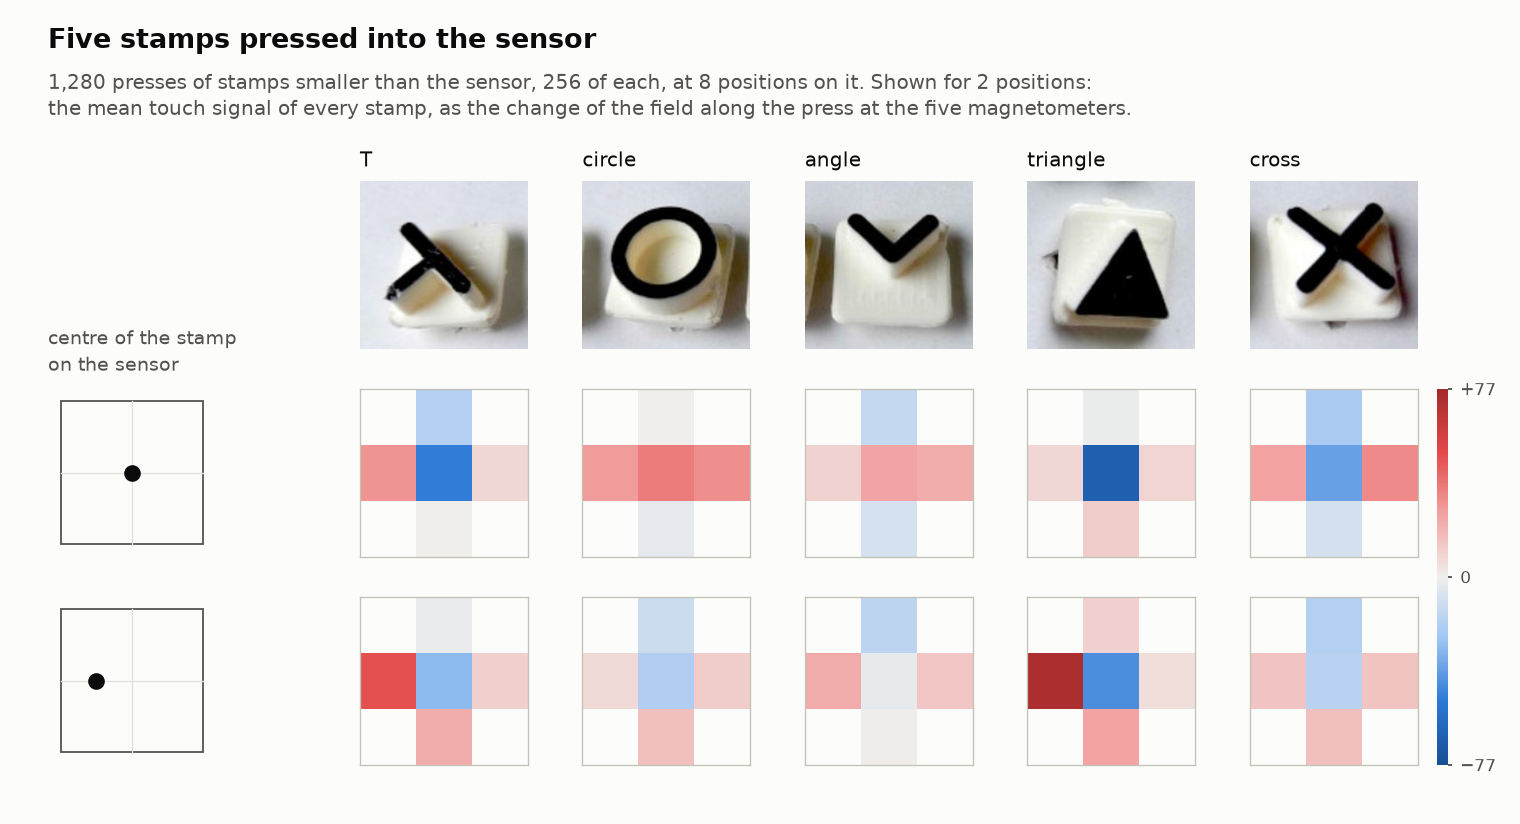
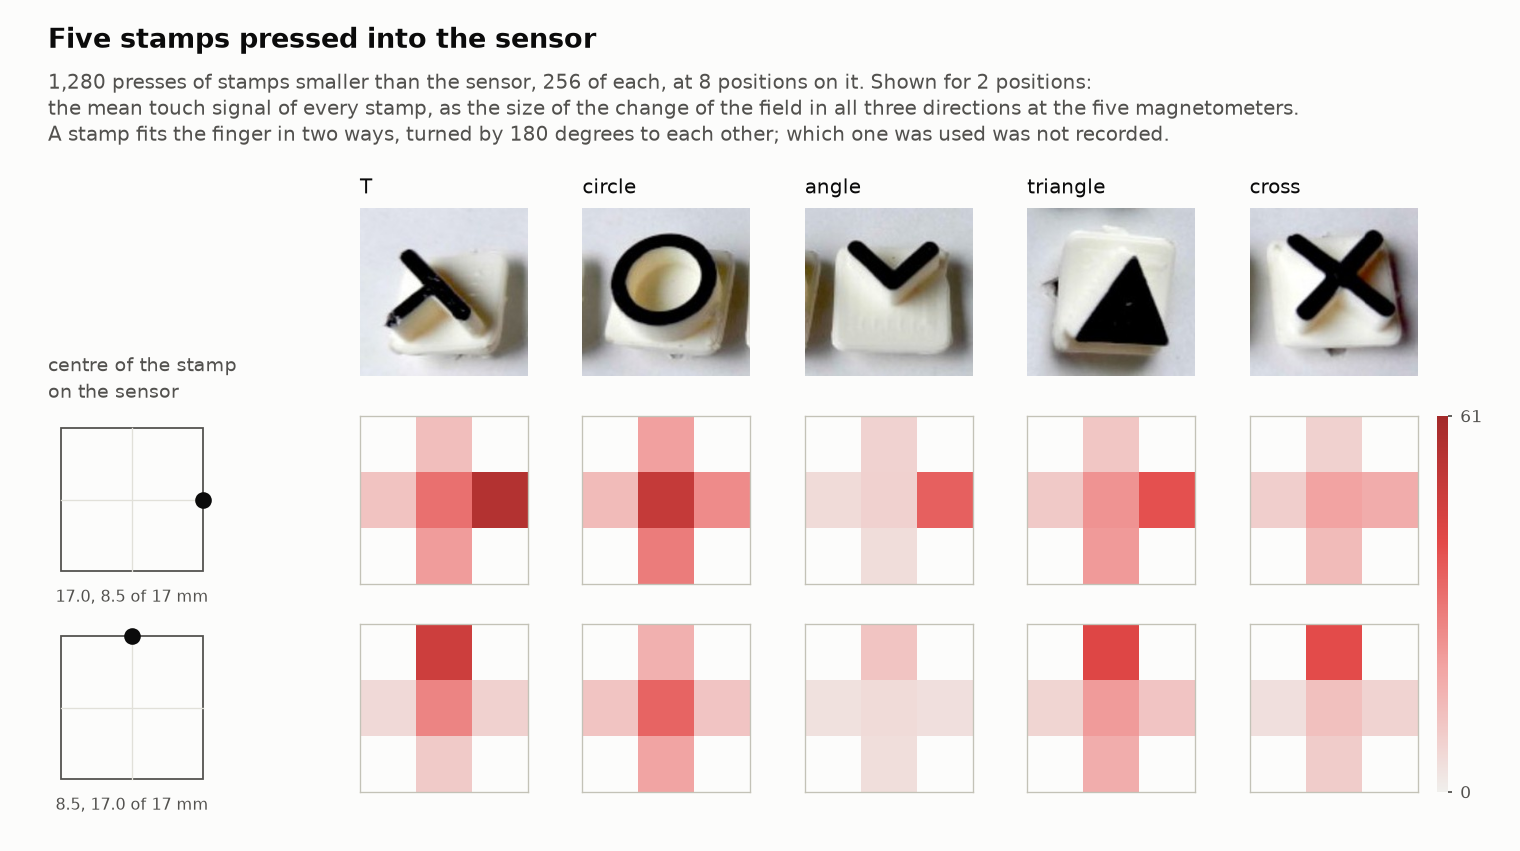
use absolute data, bx by bz channels visualization weighting and alignment;

diff --git a/src/imagine2touch/visualization/stamp_visualizer.py b/src/imagine2touch/visualization/stamp_visualizer.py
@@ -14,8 +14,9 @@ class StampVisualizer:
         StampVisualizer(dataset, photos="assets/stamps").overview("assets/stamps_overview.png")
 
     One column per stamp: its photograph (`photos` holds <stamp>.jpg) and, for a few of the positions
-    it was pressed at, the mean touch signal there, as the cross of the five magnetometers (the field
-    along the direction of the press).  A small drawing of the sensing surface shows each position.
+    it was pressed at, the mean touch signal there, as the cross of the five magnetometers
+    (TactileImage.grey: the change of the field in all three directions, as the paper draws a signal).
+    A small drawing of the sensing surface shows each position.
     """
 
     PAD = 17.0      # side of the sensing surface [mm]
@@ -23,37 +24,37 @@ class StampVisualizer:
     def __init__(self, dataset, photos=None):
         Style.apply()
         self.dataset, self.photos = dataset, Path(photos) if photos else None
-        self.along = TactileImage.along_touch(dataset.signal)
-        for corner in TactileImage.CORNERS:
-            self.along[(slice(None), *corner)] = np.nan
-        self.limit = float(np.percentile(np.abs(dataset.signal[:, 2::3]), 98))
+        self.images = TactileImage.grey(dataset.signal)
+        self.limit = float(np.nanpercentile(self.images, 98))
 
     def location(self, ax, position):
         """
         The sensing surface as a square, with the place of a press [mm] marked on it: the press grid's
         first axis to the right and its second upwards, which is the layout of TactileImage: the
-        magnetometer nearest the stamp is the one that responds.
+        signal leans to the side the stamp is moved to, in each of the field's three directions.
         """
         ax.add_patch(plt.Rectangle((0, 0), self.PAD, self.PAD, fill=False, ec=Style.INK_2, lw=0.8))
         ax.plot([self.PAD / 2] * 2, [0, self.PAD], color=Style.HAIRLINE, lw=0.6)
         ax.plot([0, self.PAD], [self.PAD / 2] * 2, color=Style.HAIRLINE, lw=0.6)
-        ax.scatter(position[0], position[1], s=42, color=Style.INK, zorder=3)
+        ax.scatter(position[0], position[1], s=42, color=Style.INK, zorder=3, clip_on=False)
+        ax.text(self.PAD / 2, -2.2, f"{position[0]:.1f}, {position[1]:.1f} of {self.PAD:.0f} mm", fontsize=7, color=Style.INK_2, ha="center", va="top")
         ax.set(xlim=(-1.5, self.PAD + 1.5), ylim=(-1.5, self.PAD + 1.5), aspect="equal")
         ax.axis("off")
 
-    def overview(self, path=None, shown=((8.5, 8.5), (4.2, 8.5))):
+    def overview(self, path=None, shown=((17.0, 8.5), (8.5, 17.0))):
         """`shown`: the press positions to draw [mm], of the eight in the dataset."""
         d = self.dataset
         position, positions = d.position_index, 1000 * np.unique(d.position.round(5), axis=0)
         chosen = [int(np.abs(positions - p).sum(1).argmin()) for p in shown]
         W, side, gap, left = 9.5, 1.05, 0.34, 2.25
-        fig = plt.figure(figsize=(W, 1.25 + (side + 0.25) * (1 + len(chosen))))
+        fig = plt.figure(figsize=(W, 1.42 + (side + 0.25) * (1 + len(chosen))))
         H = fig.get_figheight()
         fig.text(0.3 / W, 1 - 0.3 / H, "Five stamps pressed into the sensor", fontsize=12, weight="bold")
         fig.text(0.3 / W, 1 - 0.44 / H, f"{len(d):,} presses of stamps smaller than the sensor, {int((d.stamp == 0).sum())} of each, at {len(positions)} "
-                 f"positions on it. Shown for {len(chosen)} positions:\nthe mean touch signal of every stamp, as the change of the "
-                 "field along the press at the five magnetometers.", color=Style.INK_2, va="top", linespacing=1.3)
-        top = 1.05
+                 f"positions on it. Shown for {len(chosen)} positions:\nthe mean touch signal of every stamp, as the size of the change of the "
+                 "field in all three directions at the five magnetometers.\n"
+                 "A stamp fits the finger in two ways, turned by 180 degrees to each other; which one was used was not recorded.", color=Style.INK_2, va="top", linespacing=1.3)
+        top = 1.22
         for c, stamp in enumerate(d.STAMPS):
             x = (left + c * (side + gap)) / W
             fig.text(x, 1 - (top + 0.02) / H, stamp, fontsize=9, va="bottom")
@@ -70,13 +71,13 @@ class StampVisualizer:
                          color=Style.INK_2, va="bottom", linespacing=1.3)
             for c in range(len(d.STAMPS)):
                 ax = fig.add_axes([(left + c * (side + gap)) / W, bottom, side / W, side / H])
-                image = ax.imshow(self.along[(d.stamp == c) & (position == k)].mean(0), cmap=Style.SIGNAL,
-                                  vmin=-self.limit, vmax=self.limit)
+                image = ax.imshow(self.images[(d.stamp == c) & (position == k)].mean(0), cmap=Style.SIGNAL,
+                                  vmin=0, vmax=self.limit)
                 Style.frame(ax)
         low = 1 - (top + 0.08 + (side + 0.25) * len(chosen) + side) / H
         bar = fig.colorbar(image, cax=fig.add_axes([(left + 5 * (side + gap) - gap + 0.12) / W, low, 0.07 / W,
                                                     ((side + 0.25) * (len(chosen) - 1) + side) / H]))
-        bar.set_ticks([-self.limit, 0, self.limit], labels=[f"−{self.limit:.0f}", "0", f"+{self.limit:.0f}"])
+        bar.set_ticks([0, self.limit], labels=["0", f"{self.limit:.0f}"])
         bar.outline.set_visible(False)
         bar.ax.tick_params(length=2, labelsize=7.5)
         if path is None:

diff --git a/src/imagine2touch/visualization/correspondence_figure.py b/src/imagine2touch/visualization/correspondence_figure.py
@@ -37,27 +37,24 @@ class CorrespondenceFigure:
     def __init__(self, selection, settings, clusters):
         self.settings, self.clusters = settings, clusters
         dataset, rows = selection.dataset, selection.rows
-        # the script turns every camera image a quarter turn and draws the cross as it is (centre, top, right, bottom, left)
-        self.masks = np.rot90(dataset.mask[rows].astype(float), k=1, axes=(1, 2))
-        self.rgb = np.rot90(dataset.rgb[rows], k=1, axes=(1, 2))
+        # the script laid out the masks after a turn by 90 degrees; they are drawn as the tactile image is laid out
+        self.turned = np.rot90(dataset.mask[rows].astype(float), k=1, axes=(1, 2))
+        self.masks = TactileImage.aligned(dataset.mask[rows].astype(float))
+        self.rgb = TactileImage.aligned(dataset.rgb[rows], colour=True)
         self.tactile = self.visualisation(dataset.signal[rows])
         self.shape = np.asarray(selection.shape)
         # the order in which the script went through the touches: object by object, as its configuration listed them
         rank = [self.OBJECTS.index(name) if name in self.OBJECTS else len(self.OBJECTS) for name in self.shape]
         self.order = np.argsort(rank, kind="stable")
 
-    GREY = (0.2989, 0.5870, 0.1140)         # the weights of red, green and blue in a grey picture
-
-    @classmethod
-    def visualisation(cls, signal):
+    @staticmethod
+    def visualisation(signal):
         """
-        (n, 3, 3) tactile images as the paper draws them: at each magnetometer the sizes of the three
-        components of the change of the field, weighted by GREY and summed.  The paper's code took the
+        (n, 3, 3) tactile images as the paper draws them (TactileImage.grey).  The paper's code took the
         size of every component when it subtracted the reading out of contact (`subtract_ambient` in
-        its reskin_calibration/dataset.py).  A value of exactly zero is left empty, as are the corners,
-        where no magnetometer sits.
+        its reskin_calibration/dataset.py).  A value of exactly zero is left empty.
         """
-        image = np.abs(TactileImage.of(signal)) @ np.array(cls.GREY)
+        image = TactileImage.grey(signal)
         return np.where(image == 0, np.nan, image)
 
     @staticmethod
@@ -69,7 +66,7 @@ class CorrespondenceFigure:
         return mean
 
     def embed(self):
-        flat = self.masks.reshape(len(self.masks), -1)
+        flat = self.turned.reshape(len(self.turned), -1)
         seed = self.settings.seed
         embedding = TSNE(n_components=2, random_state=seed).fit(flat)
         self.points = np.asarray(embedding.transform(flat))         # the script lays the masks out a second time

diff --git a/src/imagine2touch/visualization/dataset_visualizer.py b/src/imagine2touch/visualization/dataset_visualizer.py
@@ -9,6 +9,7 @@ from pathlib import Path
 
 from .style import Style
 from .touch_view import TouchView
+from imagine2touch.datasets import TactileImage
 
 PANELS = ("where", "rgb", "camera", "scan", "mask", "field")
 TITLES = {"where": "Where", "rgb": "Colour image", "camera": "Depth, wrist camera", "mask": "Contact mask, camera",
@@ -38,6 +39,7 @@ class DatasetVisualizer:
         self.placed = [k for k in self.sessions if dataset.has_scan(k)]
         self.rng = np.random.default_rng(seed)
         self.signal_limit = float(np.percentile(np.abs(dataset.signal[self.rows[self.calm]]), 98))
+        self.grey_limit = float(np.nanpercentile(TactileImage.grey(dataset.signal[self.rows[self.calm]]), 98))
 
     # ------------------------------------------------------------------ choosing touches worth looking at
     def clear_touches(self, per_shape=1, sessions=None):
@@ -140,7 +142,7 @@ class DatasetVisualizer:
             scan = np.where(view.scan_gap >= view.reach, 2 * view.reach, np.clip(view.scan_gap, 0, None))    # nothing in reach: drawn as far
             axes["scan"].imshow(scan, **depth)
         axes["mask"].imshow(view.mask, cmap=Style.MASKS, vmin=0, vmax=1, interpolation="nearest")
-        axes["field"].imshow(view.field[2], cmap=Style.SIGNAL, vmin=-self.signal_limit, vmax=self.signal_limit)
+        axes["field"].imshow(view.grey, cmap=Style.SIGNAL, vmin=0, vmax=self.grey_limit)
         for name, ax in axes.items():
             if name != "where":
                 Style.frame(ax)
@@ -168,10 +170,9 @@ class DatasetVisualizer:
                            cax=fig.add_axes([first.x0, low, last.x1 - first.x0, 0.07 / H]), orientation="horizontal")
         bar.set_ticks([0, 3.5, 7], labels=["nearest", "3.5 mm", "7 mm"] if "scan" not in axes else ["touching", "3.5 mm in front", "7 mm"])
         first = last = axes["field"].get_position()
-        bar_2 = fig.colorbar(plt.cm.ScalarMappable(plt.Normalize(-self.signal_limit, self.signal_limit), Style.SIGNAL),
+        bar_2 = fig.colorbar(plt.cm.ScalarMappable(plt.Normalize(0, self.grey_limit), Style.SIGNAL),
                              cax=fig.add_axes([first.x0, low, last.x1 - first.x0, 0.07 / H]), orientation="horizontal")
-        bar_2.set_ticks([-self.signal_limit, 0, self.signal_limit],
-                        labels=[f"−{self.signal_limit:.0f}", "no change", f"+{self.signal_limit:.0f}"])
+        bar_2.set_ticks([0, self.grey_limit], labels=["no change", f"{self.grey_limit:.0f}"])
         for b in (bar, bar_2):
             b.outline.set_visible(False)
             b.ax.tick_params(length=2, labelsize=7.5)

diff --git a/src/imagine2touch/method/models/imagine2touch_model.py b/src/imagine2touch/method/models/imagine2touch_model.py
@@ -21,12 +21,11 @@ class TouchModel:
     """
 
     def __init__(self, architecture="mlp", scaling="standard", epochs=300, lr=5e-4, batch_size=128,
-                 image_weight=1.0, patience=30, seed=0, device="cpu", binary_images=False, absolute=False):
+                 image_weight=1.0, patience=30, seed=0, device="cpu", binary_images=False):
         from imagine2touch.method.models import ARCHITECTURES
         self.architecture, self.scaling, self.binary_images = architecture, scaling, binary_images
         self.epochs, self.lr, self.batch_size = epochs, lr, batch_size
         self.image_weight, self.patience, self.seed, self.device = image_weight, patience, seed, device
-        self.absolute = absolute            # train on the size of every value, as the thesis's code did
         self.scaler = SIGNAL_SCALERS[scaling]()
         torch.manual_seed(seed)
         self.network = ARCHITECTURES[architecture]().to(device)
@@ -45,8 +44,8 @@ class TouchModel:
         return loss
 
     def target(self, signals):
-        """The signals as the network is trained on them: their sizes if `absolute`."""
-        return np.abs(signals) if self.absolute else np.asarray(signals, float)
+        """The signals as the network is trained on them: the size of every value, as in the thesis's code."""
+        return np.abs(np.asarray(signals, float))
 
     def fit(self, images, signals, validation=None):
         signals = self.target(signals)
@@ -90,14 +89,13 @@ class TouchModel:
 
     # ------------------------------------------------------------------ saving
     def save(self, path):
-        torch.save(dict(network=self.network.state_dict(), scaler=vars(self.scaler), absolute=self.absolute,
+        torch.save(dict(network=self.network.state_dict(), scaler=vars(self.scaler),
                         architecture=self.architecture, scaling=self.scaling, binary_images=self.binary_images), path)
 
     @classmethod
     def load(cls, path, device="cpu"):
         state = torch.load(path, map_location=device, weights_only=False)
-        model = cls(state["architecture"], state["scaling"], device=device, binary_images=state["binary_images"],
-                    absolute=state.get("absolute", False))
+        model = cls(state["architecture"], state["scaling"], device=device, binary_images=state["binary_images"])
         model.network.load_state_dict(state["network"])
         vars(model.scaler).update(state["scaler"])
         return model

diff --git a/src/imagine2touch/datasets/shape_classification_dataset.py b/src/imagine2touch/datasets/shape_classification_dataset.py
@@ -4,7 +4,8 @@ The shape classification dataset (paper: Table I and Fig. 3; thesis: Sec. 5.1).
 The sensor is mounted on a fixture.  The robot holds one of five 3D-printed stamps, each smaller
 than the sensing surface (a letter T, a circle, an angle, a triangle and a cross), and presses it into
 the skin at eight positions of a grid, to four depths each, again and again.  Every press is one
-touch signal; the question is whether the signal tells which stamp it was.
+touch signal; the question is whether the signal tells which stamp it was.  A stamp fits the finger
+in two ways, turned by 180 degrees to each other; which one was used was not recorded.
 
 The 1,280 presses of the paper, 256 of every stamp, are in `data/shape_classification.npz` with the
 paper's split into training, validation and test presses, made from the recordings by
@@ -20,7 +21,7 @@ from imagine2touch.paths import DATA_DIR
 
 class ShapeClassificationDataset:
     """
-      signal     (N, 15) reading of the press minus the reading out of contact before it
+      signal     (N, 15) how much each value changed: |reading of the press - reading out of contact before it|
       role       (N,) the paper's split: "train", "validation" or "test"
       stamp      (N,) index into STAMPS
       session    (N,) index into `sessions`, the recorded folders
@@ -35,7 +36,7 @@ class ShapeClassificationDataset:
         self.path = Path(path or DATA_DIR / self.FILE)
         if self.available:
             z = np.load(self.path)
-            self.signal, self.stamp, self.session = z["signal"].astype(float), z["stamp"], z["session"]
+            self.signal, self.stamp, self.session = np.abs(z["signal"].astype(float)), z["stamp"], z["session"]
             self.position, self.force, self.sessions = z["position"], z["force"], [str(s) for s in z["sessions"]]
             roles = [str(r) for r in z["roles"]] if "roles" in z else ["train"]
             index = z["role"] if "role" in z else np.zeros(len(self.stamp), int)

diff --git a/src/imagine2touch/visualization/touch_view.py b/src/imagine2touch/visualization/touch_view.py
@@ -20,6 +20,7 @@ class TouchView:
       mask          (48, 48) the contact mask of the camera's image
       field         (3, 3, 3) the touch signal as three crosses: the field's two components across
                     the direction of touch and the one along it; NaN in the corners
+      grey          (3, 3) the touch signal as the paper draws it (TactileImage.grey)
     """
 
     COMPONENTS = ("across", "across", "along the touch")
@@ -28,20 +29,21 @@ class TouchView:
         self.dataset, self.index = dataset, int(i)
         grid = dataset.grid
         self.reach = grid.reach
-        self.rgb, self.mask = dataset.rgb[i], dataset.mask[i]
+        self.rgb, self.mask = TactileImage.aligned(dataset.rgb[i], colour=True), TactileImage.aligned(dataset.mask[i])
         depth = dataset.depth[i].astype(float)
         zero = dataset.camera_to_sensor[i]
         if not np.isfinite(zero):
             zero = depth[depth > 0].min() if (depth > 0).any() else 0.0
-        self.camera_gap = np.where(depth > 0, depth - zero, np.nan)
+        self.camera_gap = TactileImage.aligned(np.where(depth > 0, depth - zero, np.nan))
         self.has_scan = dataset.has_scan(int(dataset.object[i]))
         self.scan_gap = None
         if self.has_scan:
-            self.scan_gap = (dataset.scan_depth(i) - grid.behind)[:, ::-1]    # the camera's columns run the other way
+            self.scan_gap = TactileImage.aligned((dataset.scan_depth(i) - grid.behind)[:, ::-1])    # the camera's columns run the other way
         image = TactileImage.of(dataset.signal[i])[0]
         for corner in TactileImage.CORNERS:
             image[corner] = np.nan
         self.field = np.moveaxis(image, -1, 0)
+        self.grey = TactileImage.grey(dataset.signal[i])[0]
         self.signal = dataset.signal[i].astype(float)
         self.pose, self.outcome = dataset.pose[i], str(dataset.outcome[i])
         self.session = int(dataset.object[i])

diff --git a/src/imagine2touch/datasets/tactile_image.py b/src/imagine2touch/datasets/tactile_image.py
@@ -16,6 +16,7 @@ class TactileImage:
 
     PIXELS = ((1, 1), (0, 1), (1, 2), (2, 1), (1, 0))      # centre, top, right, bottom, left
     CORNERS = ((0, 0), (0, 2), (2, 0), (2, 2))
+    GREY = (0.2989, 0.5870, 0.1140)         # the weights of red, green and blue in a grey picture
 
     @classmethod
     def of(cls, signal):
@@ -26,7 +27,26 @@ class TactileImage:
             image[:, row, col] = signal[:, magnetometer]
         return image
 
+    @staticmethod
+    def aligned(images, colour=False):
+        """
+        Takes camera images (..., rows, columns), or with `colour` (..., rows, columns, 3).  Returns
+        them turned as the tactile image is laid out, so that the part of the surface over a
+        magnetometer is drawn where its pixel is.  The turn is the one the data supports: the right of
+        the camera image is the top of the sensor, and its bottom the sensor's left.
+        """
+        images = np.asarray(images)
+        rows, columns = (-3, -2) if colour else (-2, -1)
+        return np.swapaxes(np.flip(images, (rows, columns)), rows, columns)
+
     @classmethod
-    def along_touch(cls, signal):
-        """Images (n, 3, 3) of the field along the direction of touch, the component the paper's Fig. 2 shows."""
-        return cls.of(signal)[..., 2]
+    def grey(cls, signal):
+        """
+        Images (n, 3, 3) as the paper draws a touch signal (its Fig. 2): at each magnetometer the
+        sizes of the three components of the change of the field, weighted by GREY and summed.  The
+        corners, where no magnetometer sits, are NaN.
+        """
+        image = np.abs(cls.of(signal)) @ np.array(cls.GREY)
+        for corner in cls.CORNERS:
+            image[(slice(None), *corner)] = np.nan
+        return image

diff --git a/src/imagine2touch/datasets/visuo_tactile_dataset.py b/src/imagine2touch/datasets/visuo_tactile_dataset.py
@@ -25,7 +25,7 @@ class VisuoTactileDataset:
     One row per approach of the robot.
 
     Touch
-      signal            (N, 15) the reading at contact minus the reading just before it: three field
+      signal            (N, 15) how much the reading changed at contact, |reading - ambient|: three field
                         components for each magnetometer, in the order centre, top, right, bottom, left
       reading, ambient  (N, 15) the two readings themselves
       outcome           (N,) what ended the approach: "sensor" the reading jumped, "wrench" the robot
@@ -63,7 +63,7 @@ class VisuoTactileDataset:
         self.objects, self.shapes = [str(o) for o in z["objects"]], [str(s) for s in z["shapes"]]
         self.object, self.shape, self.experiment = z["object"], z["shape"], z["experiment"]
         self.outcome = np.array([ApproachOutcome.label_of(int(code)) for code in z["outcome"]])
-        self.signal, self.reading, self.ambient = z["signal"], z["reading"], z["ambient"]
+        self.signal, self.reading, self.ambient = np.abs(z["signal"]), z["reading"], z["ambient"]
         self.wrench, self.joints, self.camera_to_sensor = z["wrench"], z["joints"], z["camera_to_sensor"]
         self.depth, self.depth_processed, self.mask, self.rgb = z["depth"], z["depth_processed"], z["mask"], z["rgb"]
         self.pose = [Pose(R, t) for R, t in zip(z["pose_R"], z["pose_t"])]

diff --git a/scripts/report_benchmark.py b/scripts/report_benchmark.py
@@ -17,7 +17,7 @@ TABLES = [   # title, table of ResultsAnalyzer, what it shows
      "Paper: T 0.91, circle 0.90, angle 0.90, triangle 0.95, cross 0.94, all 0.92."),
     ("The clusters of the t-SNE figure (paper: Fig. 2)", "clusters",
      "Per cluster of masks: touches, share of the mask that is filled, where the mask lies (0 to 1 along rows and "
-     "columns), and the mean field along the direction of touch at each magnetometer."),
+     "columns), and the mean size of the change of the field along the direction of touch at each magnetometer."),
     ("How much of the touch signal the mask explains", "correspondence",
      "Share of the differences between touch signals that the cluster of the mask explains, and the same when "
      "masks and signals are paired at random."),

diff --git a/tests/datasets/test_datasets.py b/tests/datasets/test_datasets.py
@@ -30,7 +30,7 @@ def test_the_visuo_tactile_dataset():
     assert np.median([t.scan(int(t.object[i])).distance_to(t.commanded[i].t) for i in flower]) < 0.05
     assert np.median([t.distance_to_scan(i, int(t.object[i])) for i in flower]) < 1.5         # and the sensor stops on it
     assert t.signal.shape[1] == 15 and t.mask.shape[1:] == (48, 48)
-    assert t.signal == pytest.approx(t.reading - t.ambient, abs=1e-3)
+    assert t.signal == pytest.approx(np.abs(t.reading - t.ambient), abs=1e-3)
     # the stored masks follow the rule of preprocessing.contact_mask
     assert (ContactMask()(t.depth_processed[paper]) == t.mask[paper]).mean() > 0.97
     # the fitted sensor sits 125 mm in front of the flange, and the robot stops within millimetres of its target

diff --git a/src/imagine2touch/visualization/style.py b/src/imagine2touch/visualization/style.py
@@ -19,7 +19,7 @@ class Style:
 
     DEPTH = ListedColormap(["#0d366b", "#104281", "#184f95", "#1c5cab", "#256abf", "#2a78d6", "#3987e5", "#5598e7",
                             "#6da7ec", "#86b6ef", "#9ec5f4", "#b7d3f6", "#cde2fb"], "depth")
-    SIGNAL = LinearSegmentedColormap.from_list("signal", ["#184f95", "#2a78d6", "#9ec5f4", "#f0efec", "#f2a3a2", "#e34948", "#a32a2a"])
+    SIGNAL = LinearSegmentedColormap.from_list("signal", ["#f0efec", "#f2a3a2", "#e34948", "#a32a2a"])      # no change to a large one
     MASKS = ListedColormap([SURFACE, MASK], "mask")
     DEPTH = DEPTH.with_extremes(bad=MISSING, over=SURFACE)      # no reading; nothing within reach
     SIGNAL = SIGNAL.with_extremes(bad=SURFACE)                  # the corners of a tactile image

diff --git a/tests/method/test_models.py b/tests/method/test_models.py
@@ -12,8 +12,8 @@ def learnable(n=160, seed=0):
     left, right = rng.random(n), rng.random(n)
     images = np.zeros((n, 48, 48), np.float32)
     images[:, :, :24], images[:, :, 24:] = left[:, None, None], right[:, None, None]
-    signal = np.outer(left, np.linspace(1, 15, 15)) - np.outer(right, np.linspace(15, 1, 15))
-    return images, signal + rng.normal(0, 0.05, signal.shape)
+    signal = np.outer(left, np.linspace(1, 15, 15)) + np.outer(right, np.linspace(15, 1, 15))
+    return images, np.abs(signal + rng.normal(0, 0.05, signal.shape))        # a signal is the size of a change
 
 
 @pytest.mark.parametrize("architecture", sorted(ARCHITECTURES))
